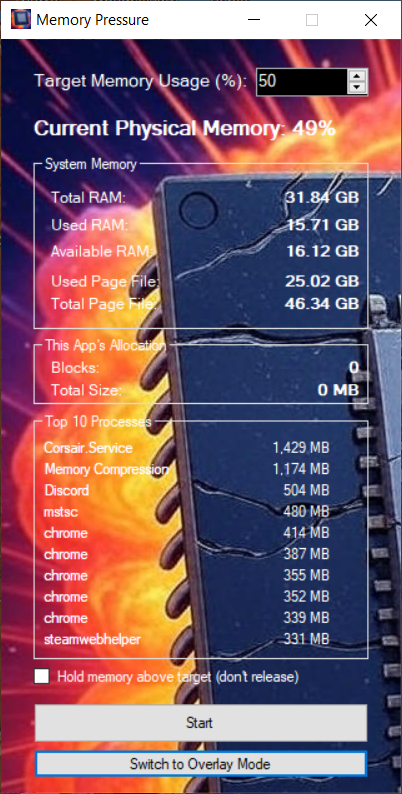
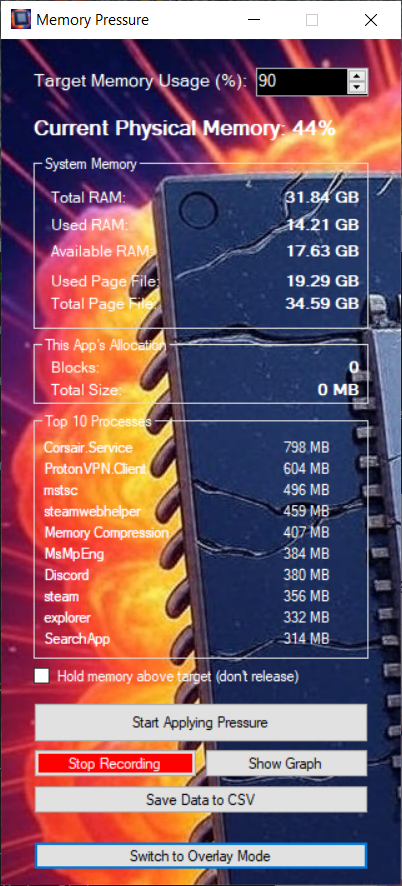
Update Readme. Include SS of memory usage graph

diff --git a/README.md b/README.md
@@ -7,6 +7,8 @@ Memory Pressure is a lightweight yet powerful Windows utility designed for devel
 # Screen Shots
 ## Main Window
 <img src="images/MemoryPressure-mainwindow.png" title="Main Window" width="200"></img>
+## Memory Usage Graph
+<img src="images/MemoryPressure-usage-graph.png" title="Memory Usage Graph" height="200"></img>
 ## Overlay
 ![Overlay](images/MemoryPressure-overlay.png)
 
